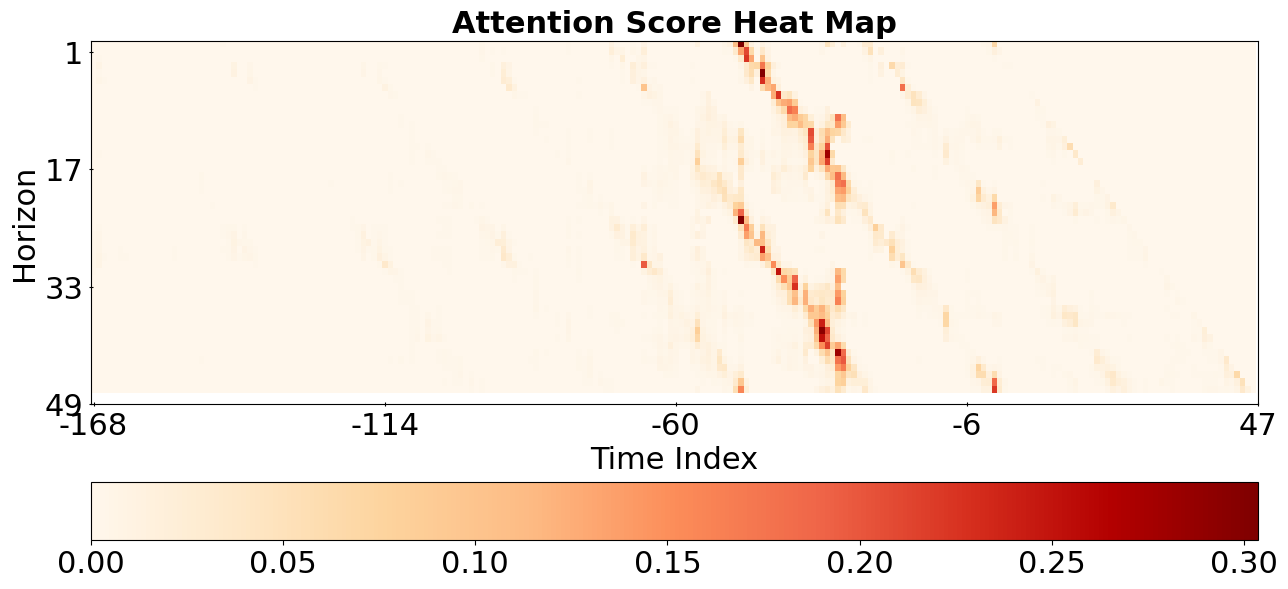
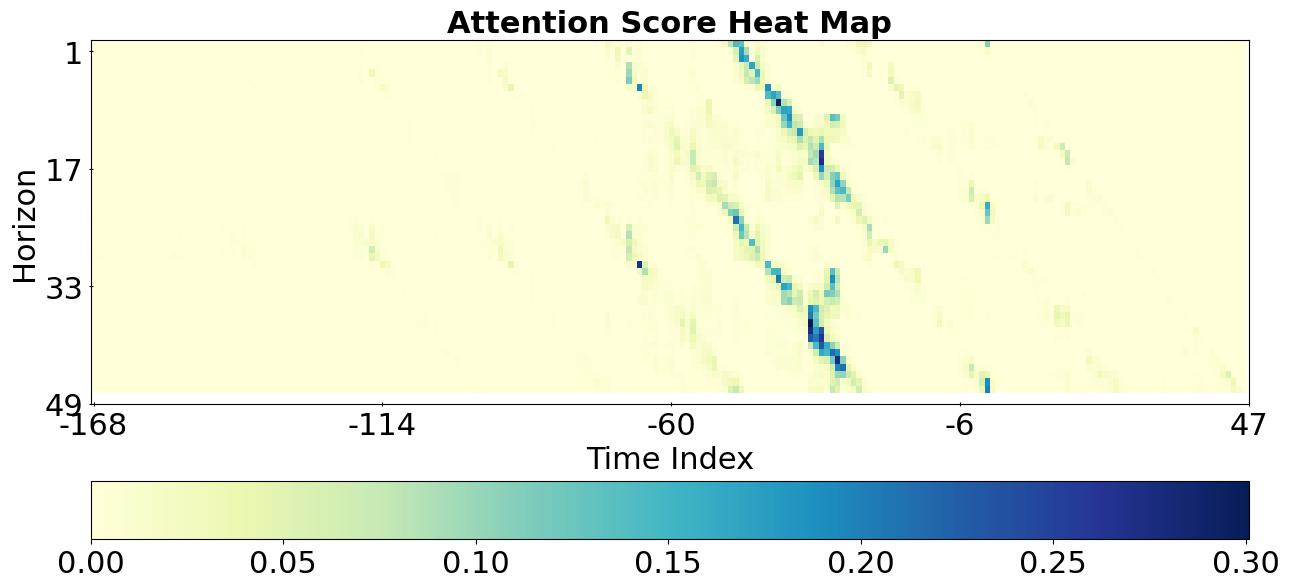
refactor: slow down animation

diff --git a/tft_interp.py b/tft_interp.py
@@ -283,7 +283,7 @@ class Visualizer:
 
         # Create GIF
         loaded_images = [imageio.imread(image) for image in images]
-        imageio.mimsave(f"{save_dir}/forecast.gif", loaded_images, duration=4, loop=0)
+        imageio.mimsave(f"{save_dir}/forecast.gif", loaded_images, duration=5, loop=0)
 
         # Delete saved images
         for filepath in images:
@@ -301,7 +301,7 @@ class Visualizer:
         fig = plt.figure(figsize=self.figsize)
         if ax is None:
             ax = plt.axes()
-        cax = ax.imshow(attn_score, cmap="OrRd", aspect="auto")
+        cax = ax.imshow(attn_score, cmap="YlGnBu", aspect="auto")
         cbar = fig.colorbar(cax, ax=ax, orientation="horizontal")
         cbar.ax.tick_params(labelsize=self.fontsize)
 

diff --git a/README.md b/README.md
@@ -4,7 +4,7 @@ This implementation, adapted from the referenced repository [pytorch-forecasting
 , simplified for developers outside the computer science field.
 
 <p align="center">
-  <img src="./figure/forecast.gif" width="700px" height="480px" >
+  <img src="./figure/forecast.gif" width="700px" height="500px" >
 </p>
 
 ## Installation
